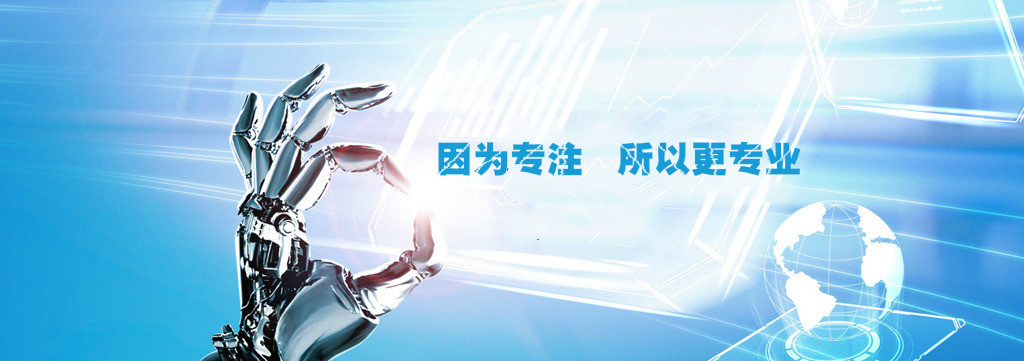
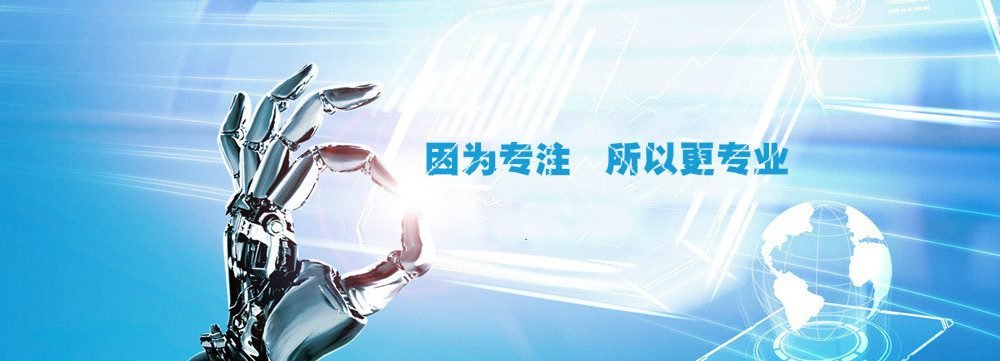
modify

diff --git a/usr/themes/ups/index.css b/usr/themes/ups/index.css
@@ -74,6 +74,9 @@ header{
     line-height: 45px;
     color: #fff;
 }
+.pogoSlider--navBottom .pogoSlider-nav{
+    bottom: 30px;
+}
 .inner_list{
     position:absolute;
     top:45px;

diff --git a/usr/themes/ups/header.php b/usr/themes/ups/header.php
@@ -101,7 +101,7 @@
     <div class="dowebok hidden-xs">         <!--大图轮播-->
         <div class="pogoSlider" id="dowebok" style="height: 390px">
             <div class="pogoSlider-slide" style="background:url(<?php $this->options->themeUrl(); ?>images/banner2.jpg)50% 0 repeat-x;"></div>
-            <div class="pogoSlider-slide" style="background:url(<?php $this->options->themeUrl(); ?>images/banner3.jpg)50% 0 repeat-x;"></div>
+            <div class="pogoSlider-slide" style="background:url(<?php $this->options->themeUrl(); ?>images/banner4.jpg)50% 0 repeat-x;"></div>
             <div class="pogoSlider-slide" style="background:url(<?php $this->options->themeUrl(); ?>images/banner1.jpg)50% 0 repeat-x;"></div>
         </div>
     </div>
